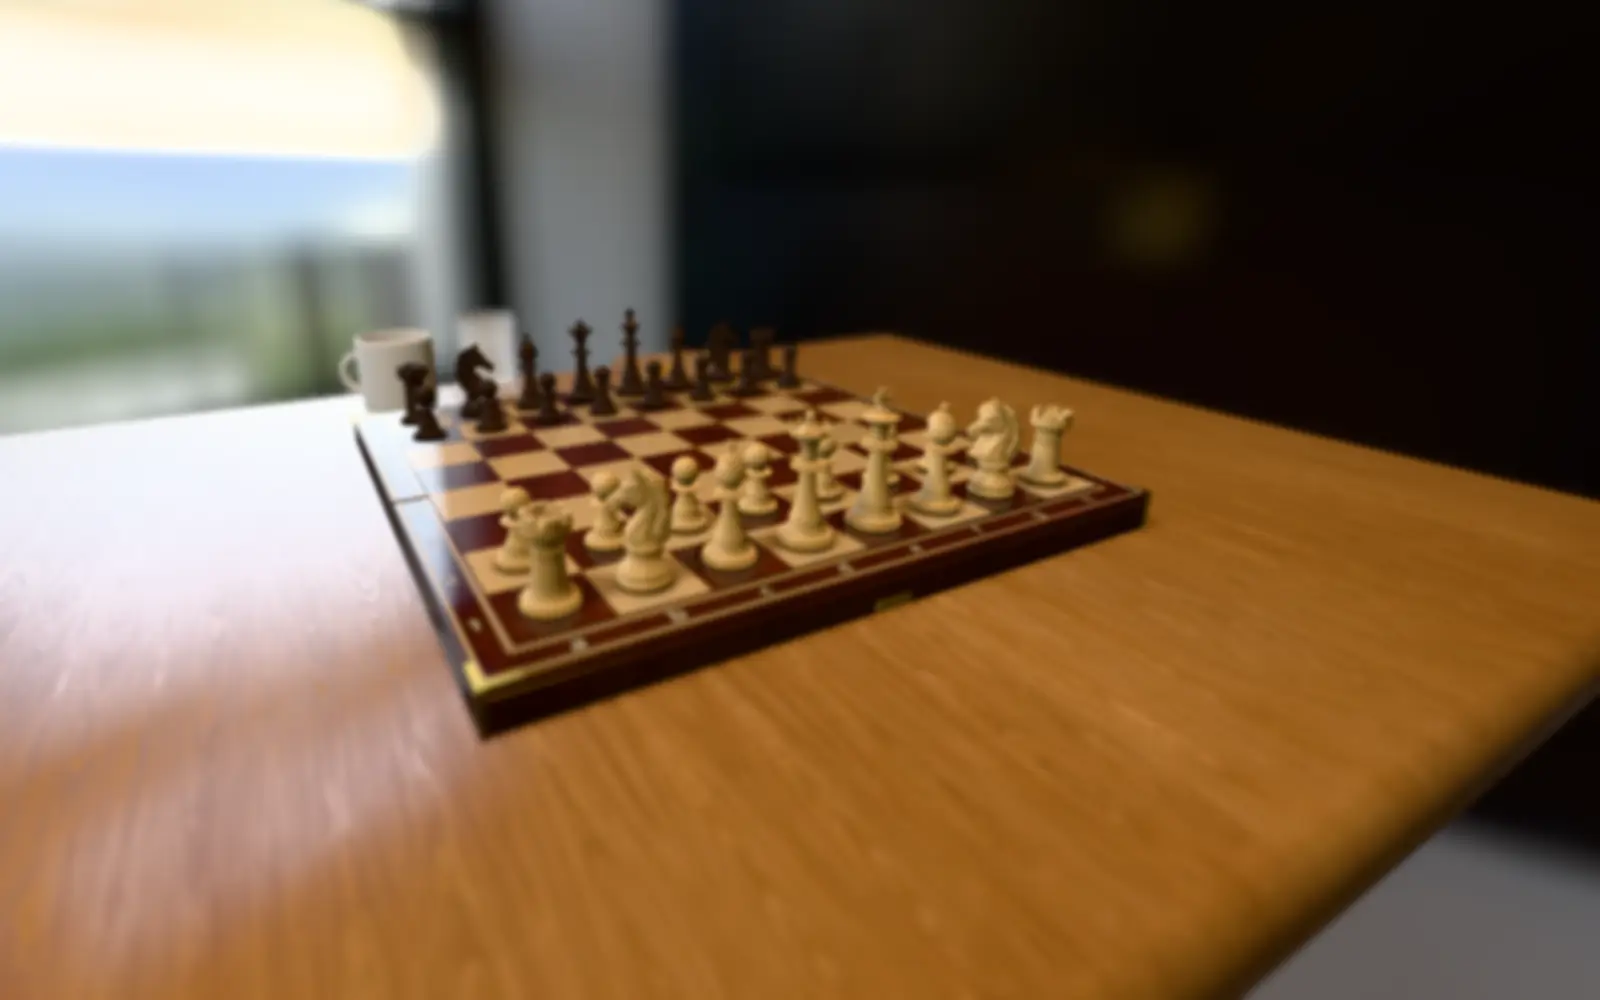
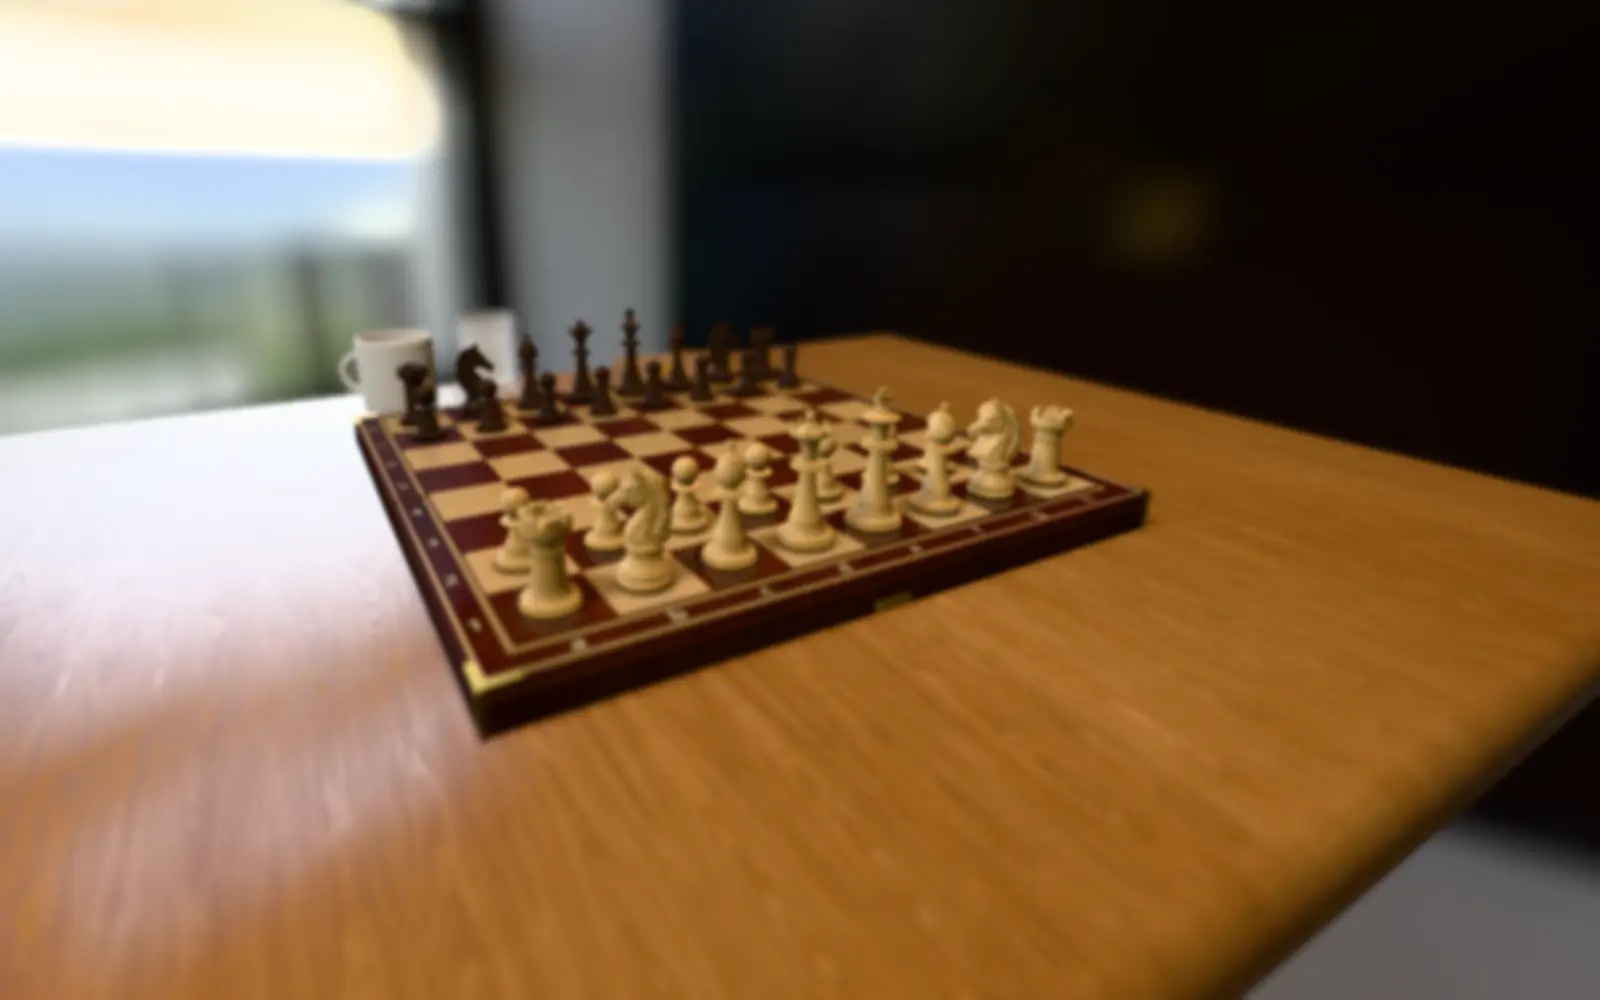
No light shines in the board in Natën: the room's lamps are held to a soft glow
Luca: "fix the light reflecting on the board in natën". The spots were the night room's
photograph (the restaurant's lamps) mirrored in the lacquer, seen from the home screen's low
view; noGlare() only turned down the lamp's direct highlight.

- noGlare() now also compresses the reflected room toward a cap (GLARE.uGlareCap, 0.035): the
  room still shows in the polish and the pieces still stand in it, but a bright light in the
  photograph never shines as a spot. Checked at the home view and the seat in all four rooms;
  the other three look as before
- The night room's still behind Mësime and Progresi retaken without the spots
- __board.glare(cap) in development, to tune it live; DESIGN.md's rule brought up to date

Changed region(s): [[0.2188, 0.403, 0.3125, 0.682]]

diff --git a/src/scripts/board/realism.ts b/src/scripts/board/realism.ts
@@ -118,22 +118,34 @@ export function roomLight(renderer: WebGLRenderer, room: Room): Texture {
   return env;
 }
 
+/** How bright a light in the room's photograph may look in the lacquer (see noGlare); one uniform shared by every
+ *  lacquered material, so a single value holds the whole board. */
+export const GLARE = { uGlareCap: { value: 0.035 } };
+
 /**
- * A lacquered finish that shows the room but not the lamp (Luca, 2026-10-13: "make the light to not reflect on the
- * board"): the lamp's own highlight on the coat and in the wood is turned down to `keep`, the room's reflection stays.
+ * A lacquered finish that shows the room but not its lights (Luca, 2026-10-13: "make the light to not reflect on the
+ * board"; 2026-10-15, of the night room: "fix the light reflecting on the board in natën"). The lamp's own highlight
+ * on the coat and in the wood is turned down to `keep`. The room's reflection stays, but a bright light in its
+ * photograph (the restaurant's lamps at night, a window by day) is compressed toward `GLARE.uGlareCap`, so it shows as
+ * a soft glow of the room and never as a shining spot.
  */
 export function noGlare<T extends MeshPhysicalMaterial>(m: T, keep = 0.1): T {
   const prev = m.onBeforeCompile;
   m.onBeforeCompile = (shader, renderer) => {
     prev?.call(m, shader, renderer);
-    shader.fragmentShader = shader.fragmentShader.replace(
-      '#include <lights_fragment_end>',
-      `#include <lights_fragment_end>
+    shader.uniforms.uGlareCap = GLARE.uGlareCap;
+    shader.fragmentShader = shader.fragmentShader
+      .replace('#include <common>', '#include <common>\nuniform float uGlareCap;\nvec3 glareHold(vec3 c) { return c / (1.0 + max(c.r, max(c.g, c.b)) / uGlareCap); }')
+      .replace(
+        '#include <lights_fragment_end>',
+        `#include <lights_fragment_end>
       reflectedLight.directSpecular *= ${keep.toFixed(3)};
+      reflectedLight.indirectSpecular = glareHold(reflectedLight.indirectSpecular);
       #ifdef USE_CLEARCOAT
         clearcoatSpecularDirect *= ${keep.toFixed(3)};
+        clearcoatSpecularIndirect = glareHold(clearcoatSpecularIndirect);
       #endif`,
-    );
+      );
   };
   const key = m.customProgramCacheKey.bind(m);
   m.customProgramCacheKey = () => `${key()}-noglare${keep}`;

diff --git a/src/scripts/board/board3d.ts b/src/scripts/board/board3d.ts
@@ -53,7 +53,7 @@ import { BOARD, GIRTH, HEIGHT, KING_CROSS, KNIGHT_HEAD, PROFILES, QUEEN_CROWN, R
 import { boardBounds, frameBounds, rigFor } from './camera.ts';
 import { FILES, planMoves, readFen, type Arrow, type BoardOptions, type BoardView, type Kind, type Marks, type Placed, type Side, type Sq, type UnboxHooks } from './types.ts';
 import { caseSound, fallSound, pieceDownSound, promoteSound } from '../../lib/sound.ts';
-import { boxUV, loadRoom, noGlare, photo, pieceMaterial, roomLight, squareMaps, type Realism, type Room } from './realism.ts';
+import { GLARE, boxUV, loadRoom, noGlare, photo, pieceMaterial, roomLight, squareMaps, type Realism, type Room } from './realism.ts';
 import { createFocus, type Focus } from './focus.ts';
 import { bankersLamp, books, candle, chessClock, coffeeCup, deskLamp, mug, notebook, phone, tumbler, type Kit } from './props.ts';
 import { DEFAULT_WORLD, WORLDS, chosenSet, type PieceSetId, type PropId, type WorldDef, type WorldId } from './looks.ts';
@@ -2625,6 +2625,11 @@ export function createBoard3d(o: BoardOptions, realism: Realism | null = null): 
       programs: () => (renderer.info.programs ?? []).map((p) => `${p.name} ${(p.cacheKey as string).slice(0, 60)}`),
       fits: () => `${fits} ${sized}`,
       exp: (o: Partial<typeof exp>) => Object.assign(exp, o),
+      // how bright a light in the room may look in the lacquer (development only, for tuning noGlare)
+      glare: (cap: number) => {
+        GLARE.uGlareCap.value = cap;
+        dirty = true;
+      },
       // a free camera for close-up checks of the materials (development only)
       look: (x: number, y: number, z: number, tx: number, ty: number, tz: number, fov = 30) => {
         lens.at = { fov, ox: 0, oy: 0 };

diff --git a/DESIGN.md b/DESIGN.md
@@ -376,7 +376,7 @@ The table stands in a real room, chosen in Pamja (Luca, 2026-10-14, after lookin
 
 Every material keeps its own reflection strength, scaled by the room's and turned with its photograph (`lit()`); a change of room loads first and then moves the whole board into it in one frame. Neutral tone mapping.
 
-**The Board.** A luxury rosewood box (Luca, 2026-10-15: "the board make it more expensive"): maple light squares and rosewood dark squares (Poly Haven rosewood_veneer1, each square its own leaf, tinted rgb(196, 150, 132) a shade deeper), the frame and the case in the same rosewood (tint #a88478) under piano lacquer (clearcoat 1 at 0.07 on the case, 1 at 0.1 on the squares). The lacquer shows the room and never the lamp: `noGlare()` keeps a tenth of the lamp's own highlight on every lacquered part (Luca, 2026-10-13: "make the light to not reflect on the board"), so no square is ever washed out. Round the squares a rope inlay (slanting leaves of maple and rosewood between two dark lines, 0.075 wide, one tile per 0.3); brass corner caps on the four outer corners (an angle over the top edge, a strip down the corner); the brass clasp front and back; one boxwood line near the outer edge. The pieces stand in the lacquer: each piece's coarse stand-in is drawn mirrored under the board, taking the lacquer's own depth at each pixel (so the board never hides it and anything standing on it does), faded a piece's height above the surface and by Fresnel (0.1 looking down, up to 0.6 grazing), in the set's own colour, only over the squares and only while the box lies open.
+**The Board.** A luxury rosewood box (Luca, 2026-10-15: "the board make it more expensive"): maple light squares and rosewood dark squares (Poly Haven rosewood_veneer1, each square its own leaf, tinted rgb(196, 150, 132) a shade deeper), the frame and the case in the same rosewood (tint #a88478) under piano lacquer (clearcoat 1 at 0.07 on the case, 1 at 0.1 on the squares). The lacquer shows the room and never a light: `noGlare()` keeps a tenth of the lamp's own highlight on every lacquered part (Luca, 2026-10-13: "make the light to not reflect on the board"), and holds the room's reflection to a soft glow, compressing any bright light in the room's photograph toward a cap (`GLARE.uGlareCap`, 0.035; Luca, 2026-10-15, of the night room's restaurant lamps: "fix the light reflecting on the board in natën"), so no square is ever washed out and no lamp shines in the board from any view, the home screen's low one included. Round the squares a rope inlay (slanting leaves of maple and rosewood between two dark lines, 0.075 wide, one tile per 0.3); brass corner caps on the four outer corners (an angle over the top edge, a strip down the corner); the brass clasp front and back; one boxwood line near the outer edge. The pieces stand in the lacquer: each piece's coarse stand-in is drawn mirrored under the board, taking the lacquer's own depth at each pixel (so the board never hides it and anything standing on it does), faded a piece's height above the surface and by Fresnel (0.1 looking down, up to 0.6 grazing), in the set's own colour, only over the squares and only while the box lies open.
 
 **The Set.** One Staunton in every finish (`staunton.ts`; Luca: "pices need to be more detailed"). Measures follow a tournament set on 2.25 in squares: king 1.65 squares tall on a 0.34 base, queen 1.53, bishop 1.36, knight 1.28, rook 0.99, pawn 0.86. The five turned pieces are lathed in the browser (56 segments and 0.6 of the profile points for the eye, 24 and 0.35 for the stand-ins the shadow map and the reflection draw; profiles cut with fillets, beads and coves) with the details a lathe cannot make added after: the queen's coronet of eight points with a pearl on each, the rook's six battlements, the bishop's mitre cut, the king's cross pattée. The knight is carved: a mesh lifted from a photograph of a boxwood knight (Higgsfield: GPT Image for the picture, Hunyuan3D v3 for the geometry), cut to 8,000 triangles (and 1,200 for its stand-in) by `tools/knight-mesh.mjs`. Every shape carries its own occlusion, so the coves and the mane's grooves darken in the room's light. A green baize pad under every base, and under every standing piece a contact shadow on the wood (a near-black crease at the rim of the base fading out half a radius beyond, spreading and fading as the piece is lifted): the shadow map alone is too soft to draw that line, and without it a piece floats.
 
@@ -494,7 +494,7 @@ The board is always the 3D table on every page (Luca, 2026-10-13: "i want the bo
 - **Do** use the tint for action and selection, red, orange and green only for status, and yellow only for the last move.
 - **Do** keep `--inset-*` on the stage as plain lengths; the 3D board parses them with parseFloat.
 - **Do** honour Reduce Transparency (solid glass) and Increase Contrast (drawn rim), and make the Stop-animations switch and reduced motion zero transitions with 0s, not 0.01ms.
-- **Do** keep the board matte: no clearcoat on the frame or squares, the lamp never mirrored in the board.
+- **Do** keep every light out of the board: the lacquered parts go through `noGlare()`, so neither the lamp nor a light in the room's photograph ever shines in it (check the low home view in each room).
 
 ### Don't:
 - **Don't** build the flat green-and-cream board widget with a grey eval bar and a sidebar of tabs.
